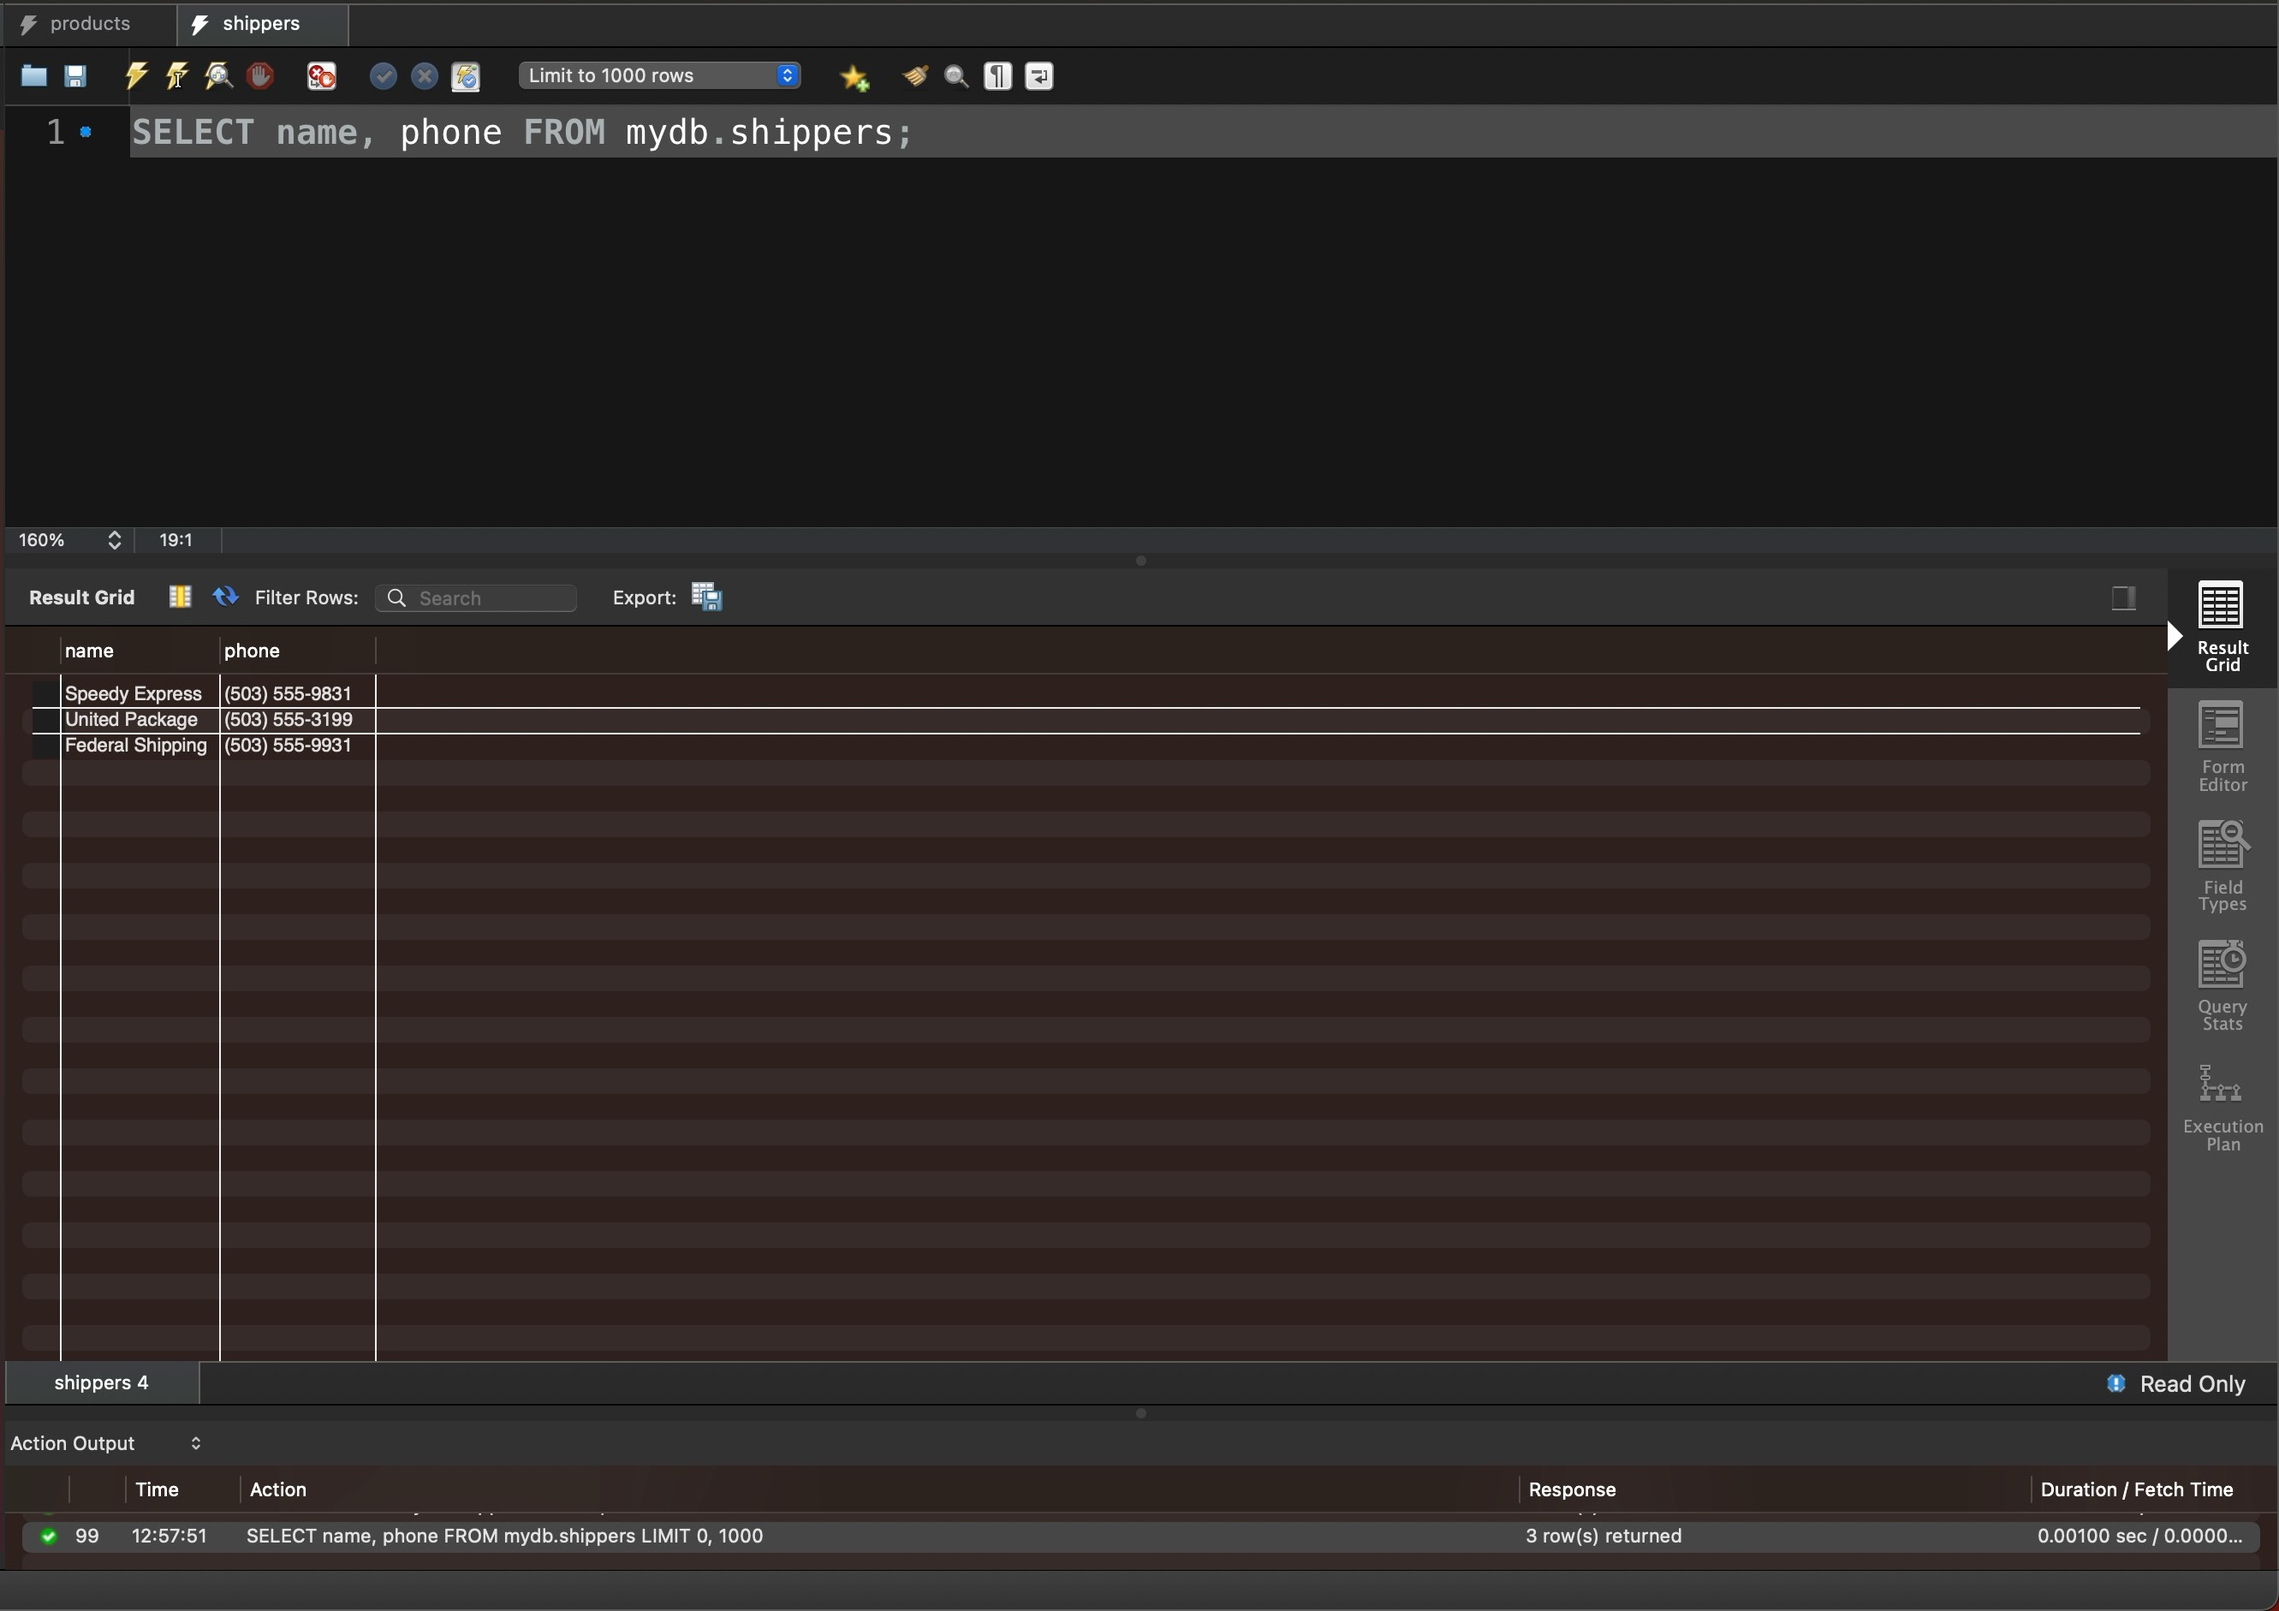
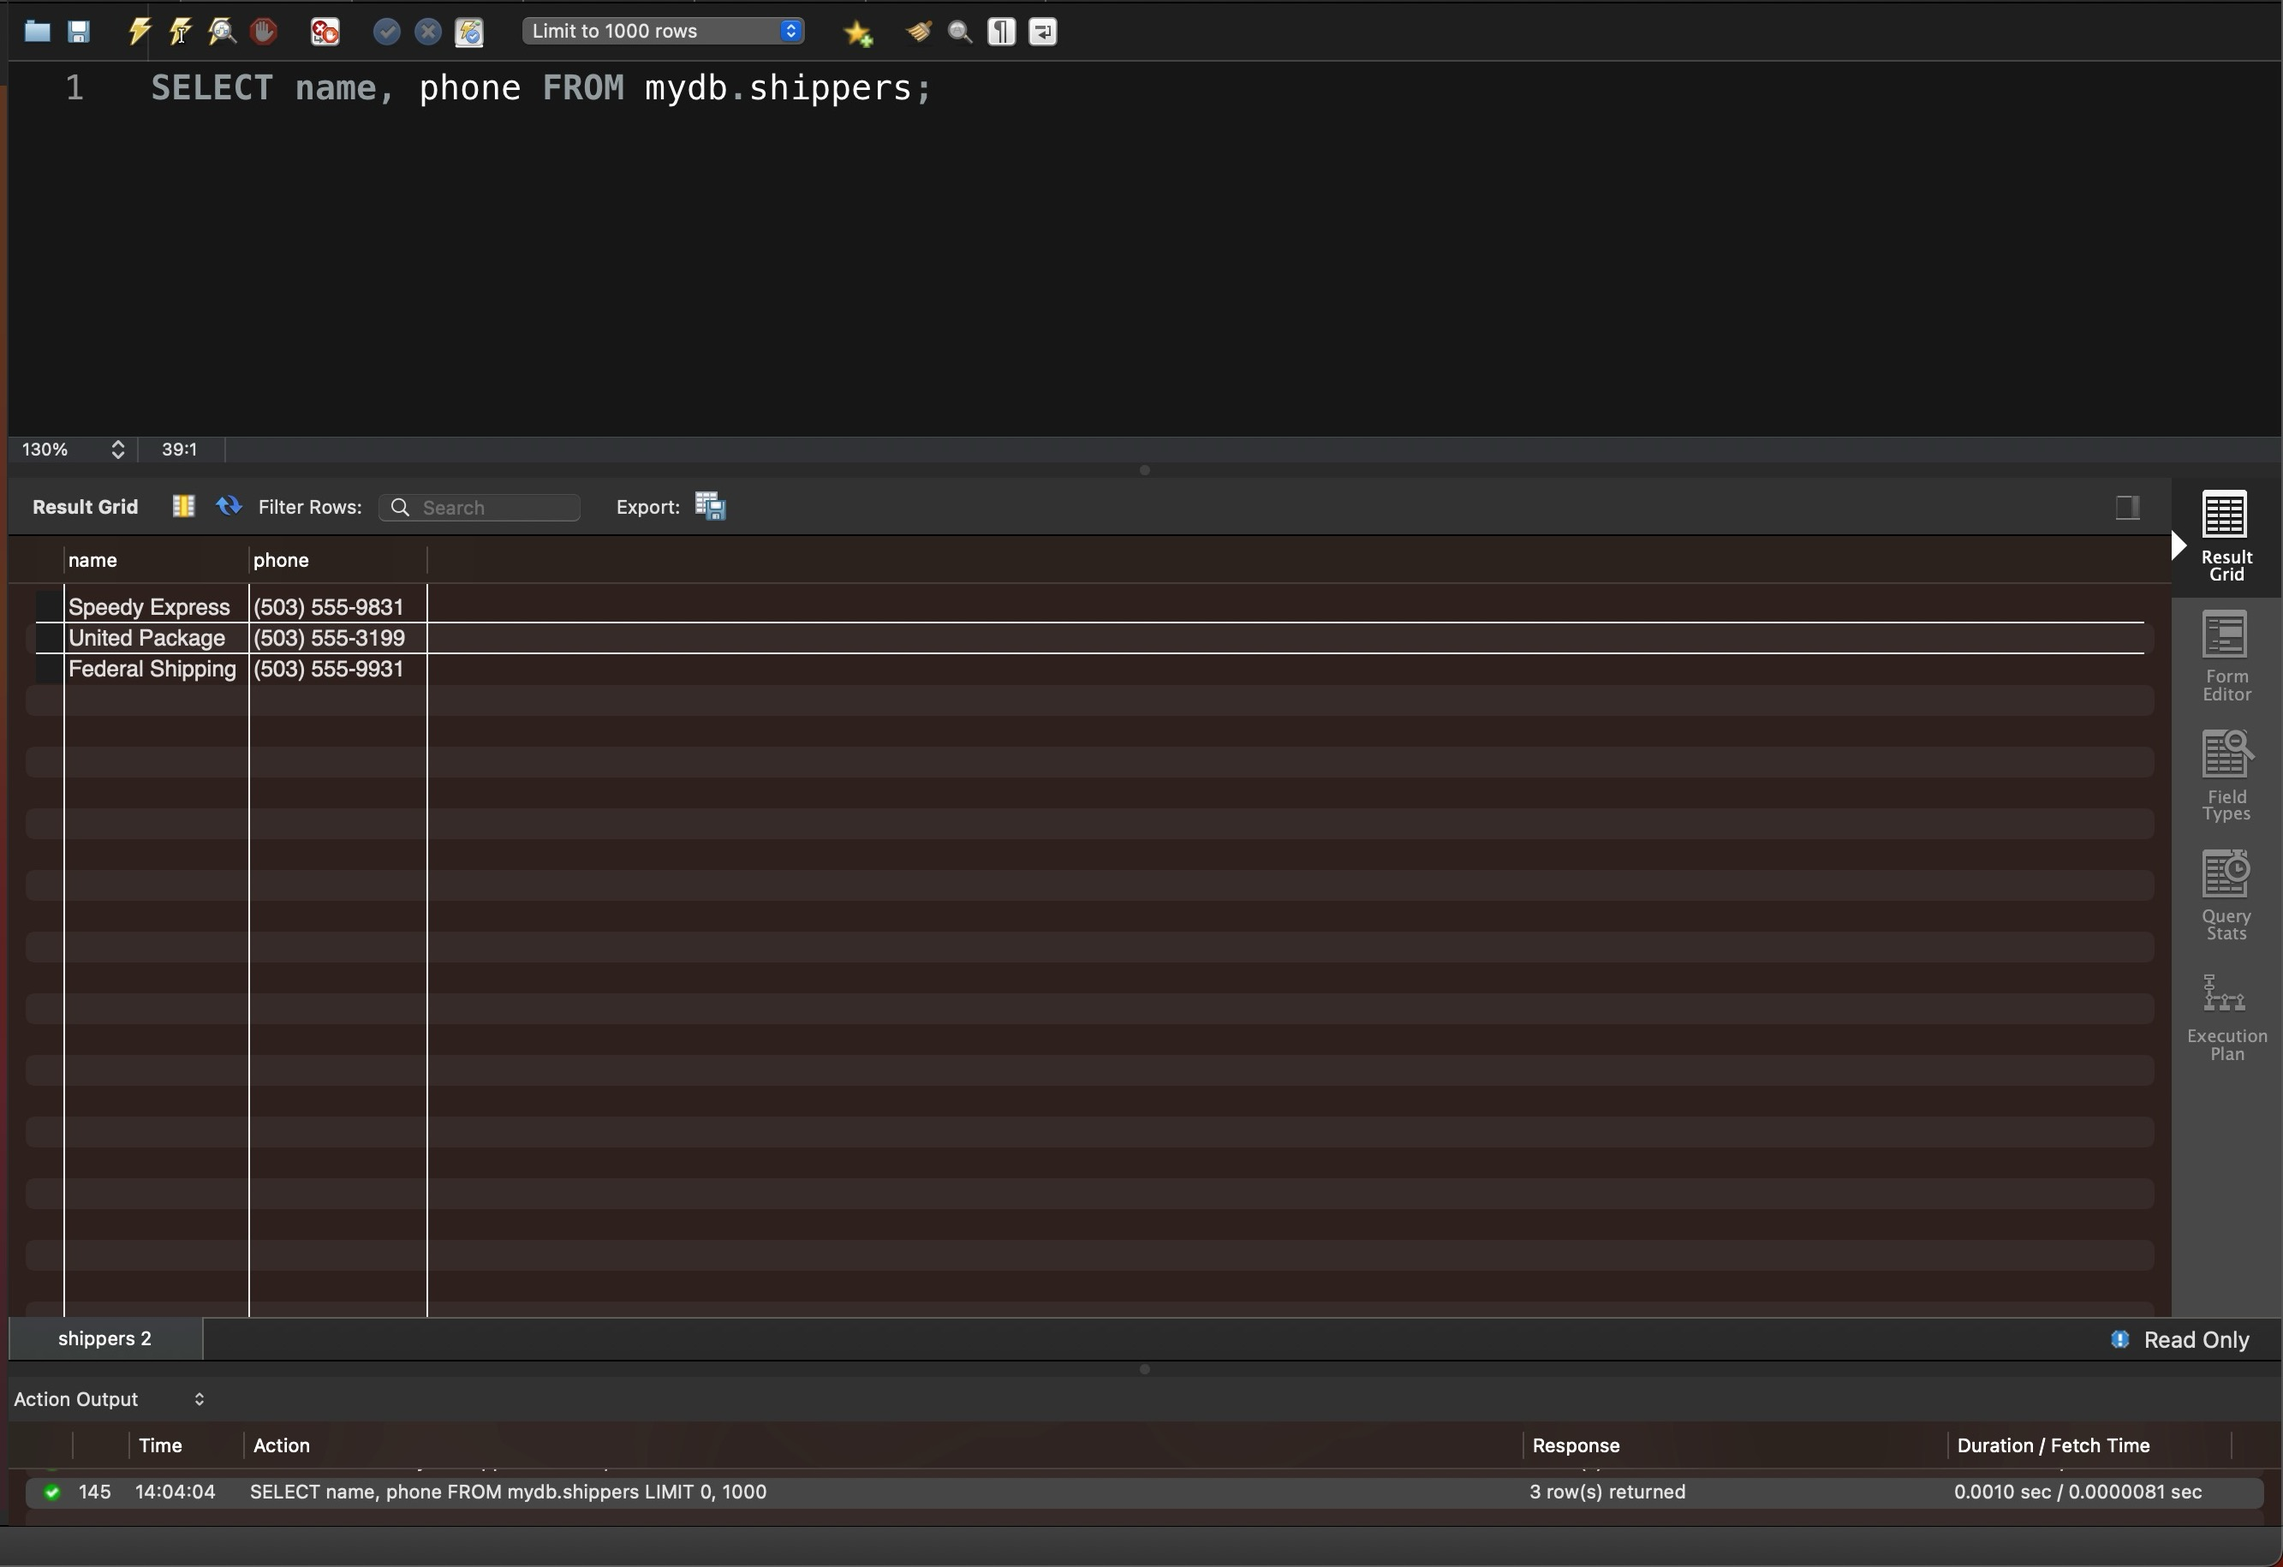
GITBOOK-8: Replace images

diff --git a/homework-03/task-1.md b/homework-03/task-1.md
@@ -13,10 +13,17 @@
 SELECT * FROM mydb.products;
 ```
 
-<figure><img src="../.gitbook/assets/task-1.01.jpg" alt="" width="375"><figcaption></figcaption></figure>
+<figure><img src="../.gitbook/assets/task-1.01.webp" alt="" width="375"><figcaption></figcaption></figure>
 
-```sql
-SELECT name, phone FROM mydb.shippers;
-```
+Файл з результатами у CSV-форматі
 
-<figure><img src="../.gitbook/assets/task-1.02.jpg" alt="" width="375"><figcaption></figcaption></figure>
+{% file src="../.gitbook/assets/task-1.01.csv" %}
+
+<pre class="language-sql"><code class="lang-sql"><strong>SELECT name, phone FROM mydb.shippers;
+</strong></code></pre>
+
+<figure><img src="../.gitbook/assets/task-1.02.webp" alt="" width="375"><figcaption></figcaption></figure>
+
+Файл з результатами у CSV-форматі
+
+{% file src="../.gitbook/assets/task-1.02.csv" %}

diff --git a/homework-03/task-2.md b/homework-03/task-2.md
@@ -4,11 +4,15 @@
 
 ```sql
 SELECT 
-    AVG(price) AS average_price,
-    MAX(price) AS max_price,
-    MIN(price) AS min_price
+    FORMAT(AVG(price), 2) AS average_price,
+    FORMAT(MAX(price), 2) AS max_price,
+    FORMAT(MIN(price), 2) AS min_price
 FROM
     mydb.products;
 ```
 
-<figure><img src="../.gitbook/assets/task-2.01.jpg" alt="" width="375"><figcaption></figcaption></figure>
+<figure><img src="../.gitbook/assets/task-2.01.webp" alt="" width="375"><figcaption></figcaption></figure>
+
+Файл з результатами у CSV-форматі
+
+{% file src="../.gitbook/assets/task-2.01.csv" %}

diff --git a/homework-03/task-3.md b/homework-03/task-3.md
@@ -13,4 +13,8 @@ ORDER BY price DESC
 LIMIT 10;
 ```
 
-<figure><img src="../.gitbook/assets/task-3.01.jpg" alt="" width="375"><figcaption></figcaption></figure>
+<figure><img src="../.gitbook/assets/task-3.01.webp" alt="" width="375"><figcaption></figcaption></figure>
+
+Файл з результатами у CSV-форматі
+
+{% file src="../.gitbook/assets/task-3.01.csv" %}

diff --git a/homework-03/task-5.md b/homework-03/task-5.md
@@ -12,4 +12,8 @@ FROM
 GROUP BY supplier_id;
 ```
 
-<figure><img src="../.gitbook/assets/task-5.01.jpg" alt="" width="375"><figcaption></figcaption></figure>
+<figure><img src="../.gitbook/assets/task-5.01.webp" alt="" width="375"><figcaption></figcaption></figure>
+
+Файл з результатами у CSV-форматі
+
+{% file src="../.gitbook/assets/task-5.01.csv" %}

diff --git a/homework-03/task-4.md b/homework-03/task-4.md
@@ -11,3 +11,8 @@ WHERE
     price BETWEEN 20 AND 100;
 ```
 
+<figure><img src="../.gitbook/assets/task-4.01.webp" alt="" width="375"><figcaption></figcaption></figure>
+
+Файл з результатами у CSV-форматі
+
+{% file src="../.gitbook/assets/task-4.01.csv" %}
